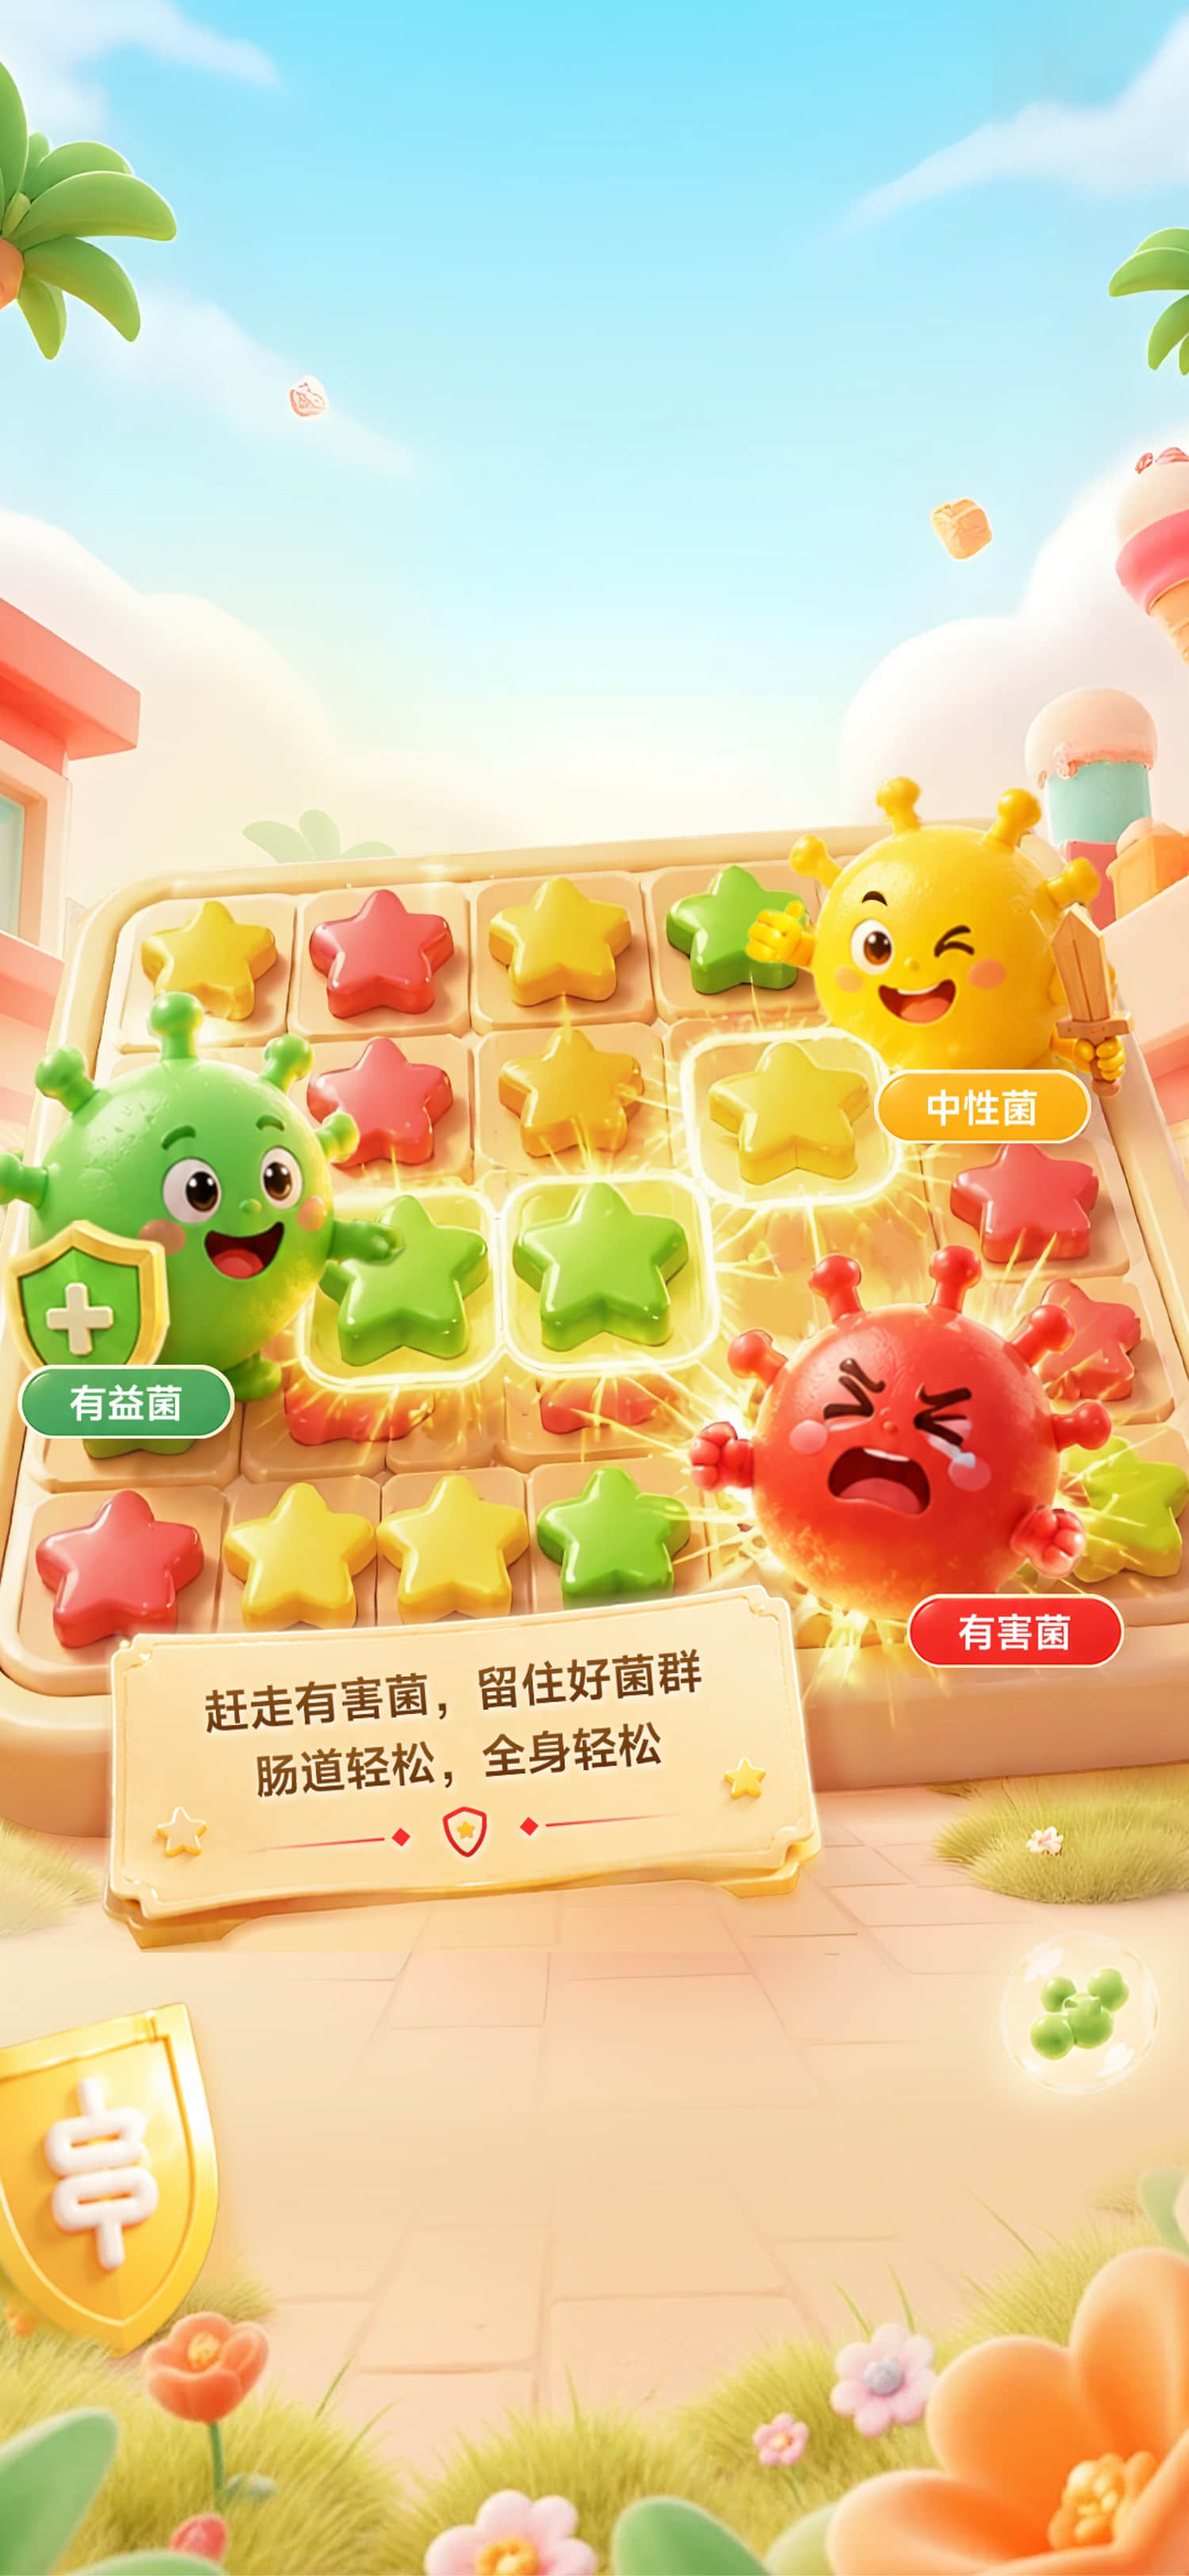
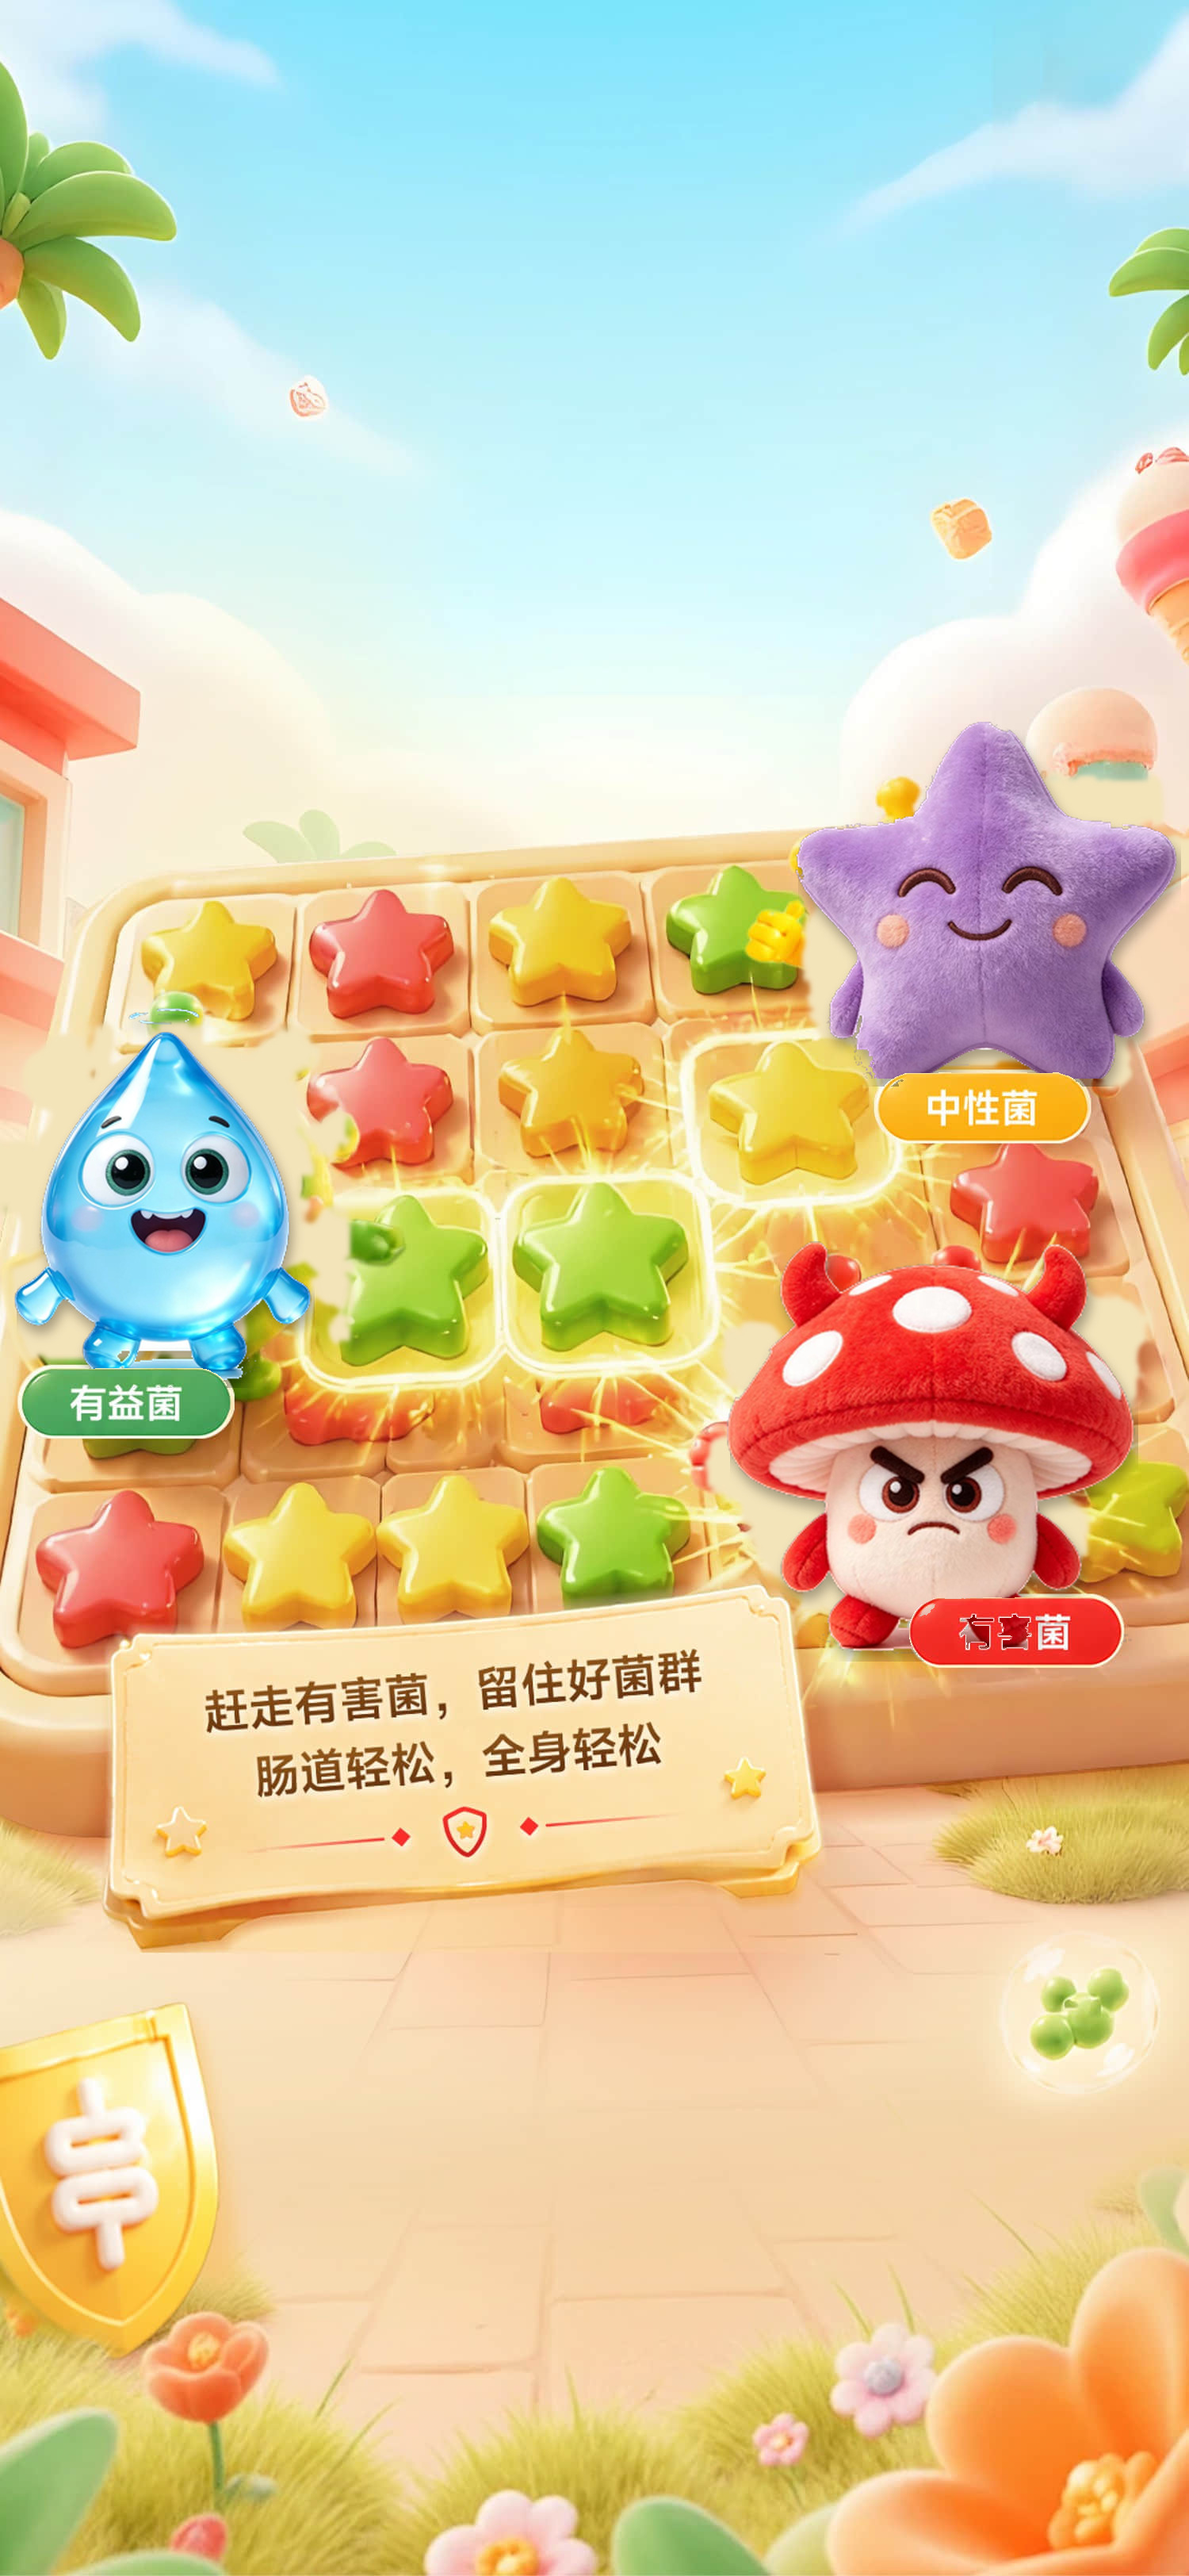
Show the new characters on the homepage and share poster.

Changed region(s): [[0.5827, 0.4664, 0.9813, 0.653], [0.6747, 0.2799, 1.0, 0.4353], [0.0, 0.3732, 0.3067, 0.5597]]

diff --git a/index.html b/index.html
@@ -7,7 +7,7 @@
   <meta http-equiv="Expires" content="0" />
   <meta name="viewport" content="width=device-width, user-scalable=no, initial-scale=1, maximum-scale=1, viewport-fit=cover" />
   <title>大家消消乐 肠享好时光</title>
-  <link rel="stylesheet" href="css/game.css?v=9" />
+  <link rel="stylesheet" href="css/game.css?v=10" />
 </head>
 <body>
   <div class="phone" id="phone">
@@ -59,8 +59,8 @@
     <img class="logo" src="image/logo.png" alt="北大方正人寿江苏分公司" />
     <div id="result-title" class="result-title win"></div>
     <div class="score-card">
-      <div class="score-line"><img src="assets/static/image/bad.e7701dce.png?v=9" alt="" /><span>成功消除有害菌</span><b id="result-bad">0个</b></div>
-      <div class="score-line"><img src="assets/static/image/good2.0b5e797e.png?v=9" alt="" /><span>成功守护有益菌</span><b id="result-good">0个</b></div>
+      <div class="score-line"><img src="assets/static/image/bad.e7701dce.png?v=10" alt="" /><span>成功消除有害菌</span><b id="result-bad">0个</b></div>
+      <div class="score-line"><img src="assets/static/image/good2.0b5e797e.png?v=10" alt="" /><span>成功守护有益菌</span><b id="result-good">0个</b></div>
       <div class="score-line"><span>得分</span><b id="result-score">0</b></div>
       <div id="result-rank-block" class="rank-card">
         <img id="result-rank-img" class="badge" alt="" />
@@ -83,7 +83,7 @@
 
   <section id="howto" class="overlay howto" hidden>
     <div class="howto-card">
-      <img class="rules" src="assets/static/image/game_rules.b7cd129a.png?v=9" alt="游戏规则" />
+      <img class="rules" src="assets/static/image/game_rules.b7cd129a.png?v=10" alt="游戏规则" />
       <img class="finger" src="assets/static/image/finger.2957c077.png" alt="" />
     </div>
     <button type="button" data-action="howto-go"><img class="howto-go" src="assets/static/image/start.766e35a5.png" alt="开始" /></button>
@@ -122,7 +122,7 @@
 
   <div id="toast" class="toast" hidden></div>
   </div>
-  <script src="js/engine.js?v=9"></script>
-  <script src="js/app.js?v=9"></script>
+  <script src="js/engine.js?v=10"></script>
+  <script src="js/app.js?v=10"></script>
 </body>
 </html>

diff --git a/js/app.js b/js/app.js
@@ -3,11 +3,11 @@ const MEDIA = "assets/static/media/";
 const LOGO = "image/logo.png";
 
 const TILES = {
-  1: IMG + "bad.e7701dce.png?v=9",
-  2: IMG + "good1.bec550f3.png?v=9",
-  3: IMG + "good2.0b5e797e.png?v=9",
-  4: IMG + "grape.ec727821.png?v=9",
-  5: IMG + "carrot.85a5d31e.png?v=9",
+  1: IMG + "bad.e7701dce.png?v=10",
+  2: IMG + "good1.bec550f3.png?v=10",
+  3: IMG + "good2.0b5e797e.png?v=10",
+  4: IMG + "grape.ec727821.png?v=10",
+  5: IMG + "carrot.85a5d31e.png?v=10",
 };
 
 const ROUND_TITLE = [
@@ -224,7 +224,7 @@ function renderRank() {
 
 function renderModal() {
   const map = {
-    rules: { title: IMG + "tab_rules.2280077b.png", body: IMG + "rules.d30d95b1.png?v=9", frame: IMG + "bg_modal2.f6c41725.png" },
+    rules: { title: IMG + "tab_rules.2280077b.png", body: IMG + "rules.d30d95b1.png?v=10", frame: IMG + "bg_modal2.f6c41725.png" },
     prize: { title: IMG + "tab_prize.50b50917.png", body: IMG + "tab_prize.50b50917.png", frame: IMG + "bg_modal1.90a830b4.png" },
     protocol: { title: IMG + "title_rules.d6d6c7d2.png", body: IMG + "protocol.e3577188.png", frame: IMG + "bg_modal3.3d7bc8c7.png" },
   };

diff --git a/css/game.css b/css/game.css
@@ -33,7 +33,7 @@ button, img { user-select: none; }
 button { border: 0; padding: 0; background: transparent; cursor: pointer; }
 .screen, .overlay { position: absolute; inset: 0; }
 .screen { min-height: 100%; background-position: center top; background-size: cover; background-repeat: no-repeat; }
-#home { background-image: url("../assets/static/image/bg.ead9a73e.jpg"); }
+#home { background-image: url("../assets/static/image/bg.ead9a73e.jpg?v=10"); }
 #game { background-image: url("../assets/static/image/bg.5f682dba.jpg"); overflow: auto; }
 #rank { background-image: url("../assets/static/image/bg.22ba2e11.jpg"); overflow: auto; }
 #poster { background-image: url("../assets/static/image/bg.9fb073bd.jpg"); overflow: auto; }

diff --git a/make_poster.py b/make_poster.py
@@ -5,7 +5,7 @@ import qrcode
 from PIL import Image, ImageDraw, ImageFont
 
 ROOT = os.path.dirname(os.path.abspath(__file__))
-PLAY_URL = os.environ.get("PLAY_URL", "https://hua691.github.io/gut-match3-play/?v=9")
+PLAY_URL = os.environ.get("PLAY_URL", "https://hua691.github.io/gut-match3-play/?v=10")
 OUT = os.path.join(ROOT, "海报.png")
 
 W, H = 1080, 2160
